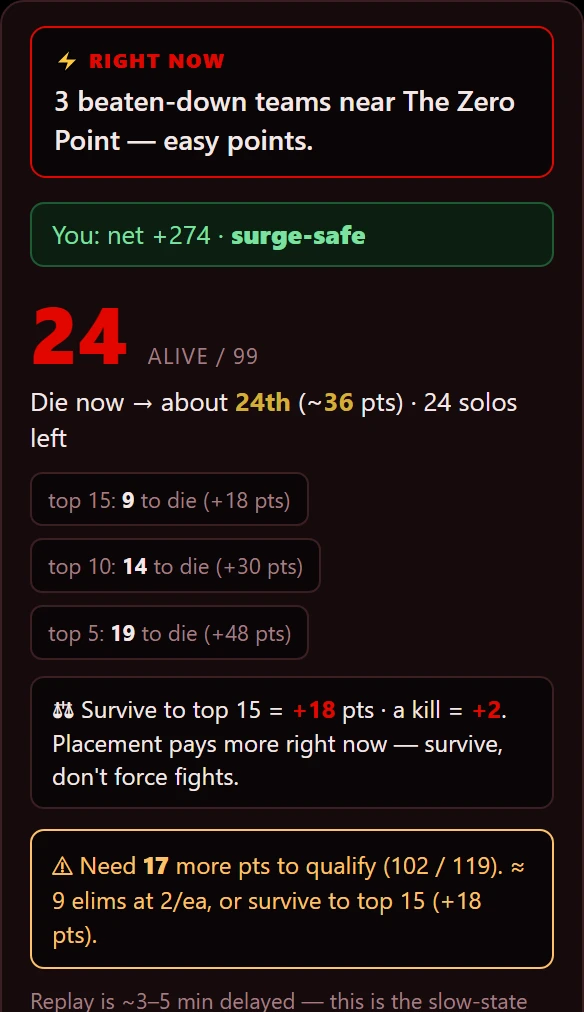
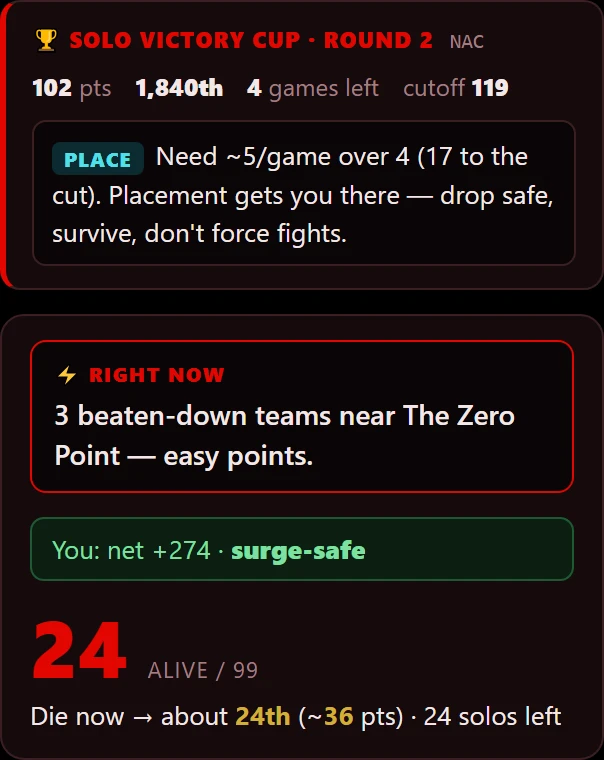
snipemaxxer: 0.1.66 download + live-standing points-brain overlay shot

Changed region(s): [[0.0, 0.0, 0.9555, 0.7868], [0.0, 0.8171, 1.0, 1.0], [0.9863, 0.3632, 1.0, 0.4539]]

diff --git a/src/data/products.ts b/src/data/products.ts
@@ -1065,7 +1065,7 @@ export const products: Product[] = [
     name: 'Snipemaxxer',
     category: 'Fortnite',
     status: 'beta',
-    version: '0.1.65',
+    version: '0.1.66',
     tagline: 'Know who\'s in your lobby.',
     description:
       "Snipemaxxer auto-detects your Fortnite tournament match and names the whole lobby — which pros and live streamers are in your game, where everyone dropped, who's beaten down — plus a voice coach and an always-on HUD that tracks your live tournament standing and tells you whether to play for placement or push to qualify.",
@@ -1123,7 +1123,7 @@ export const products: Product[] = [
         visual: { kind: 'image', src: '/screenshots/snipemaxxer/scout-map.webp', alt: 'The Who\'s Left & Where survivor map — the full current-season Fortnite map with drop and rotation paths and POI markers.' },
       },
     ],
-    primaryCta: { label: 'Download for Windows', href: 'https://dl.maxxtopia.com/snipemaxxer/Snipemaxxer-Setup-0.1.65.exe', external: true },
+    primaryCta: { label: 'Download for Windows', href: 'https://dl.maxxtopia.com/snipemaxxer/Snipemaxxer-Setup-0.1.66.exe', external: true },
     secondaryCta: { label: 'Get launch updates', href: waitlistUrl('snipemaxxer'), external: true },
     glyph: '⌖',
     logo: '/logos/snipemaxxer.svg',
